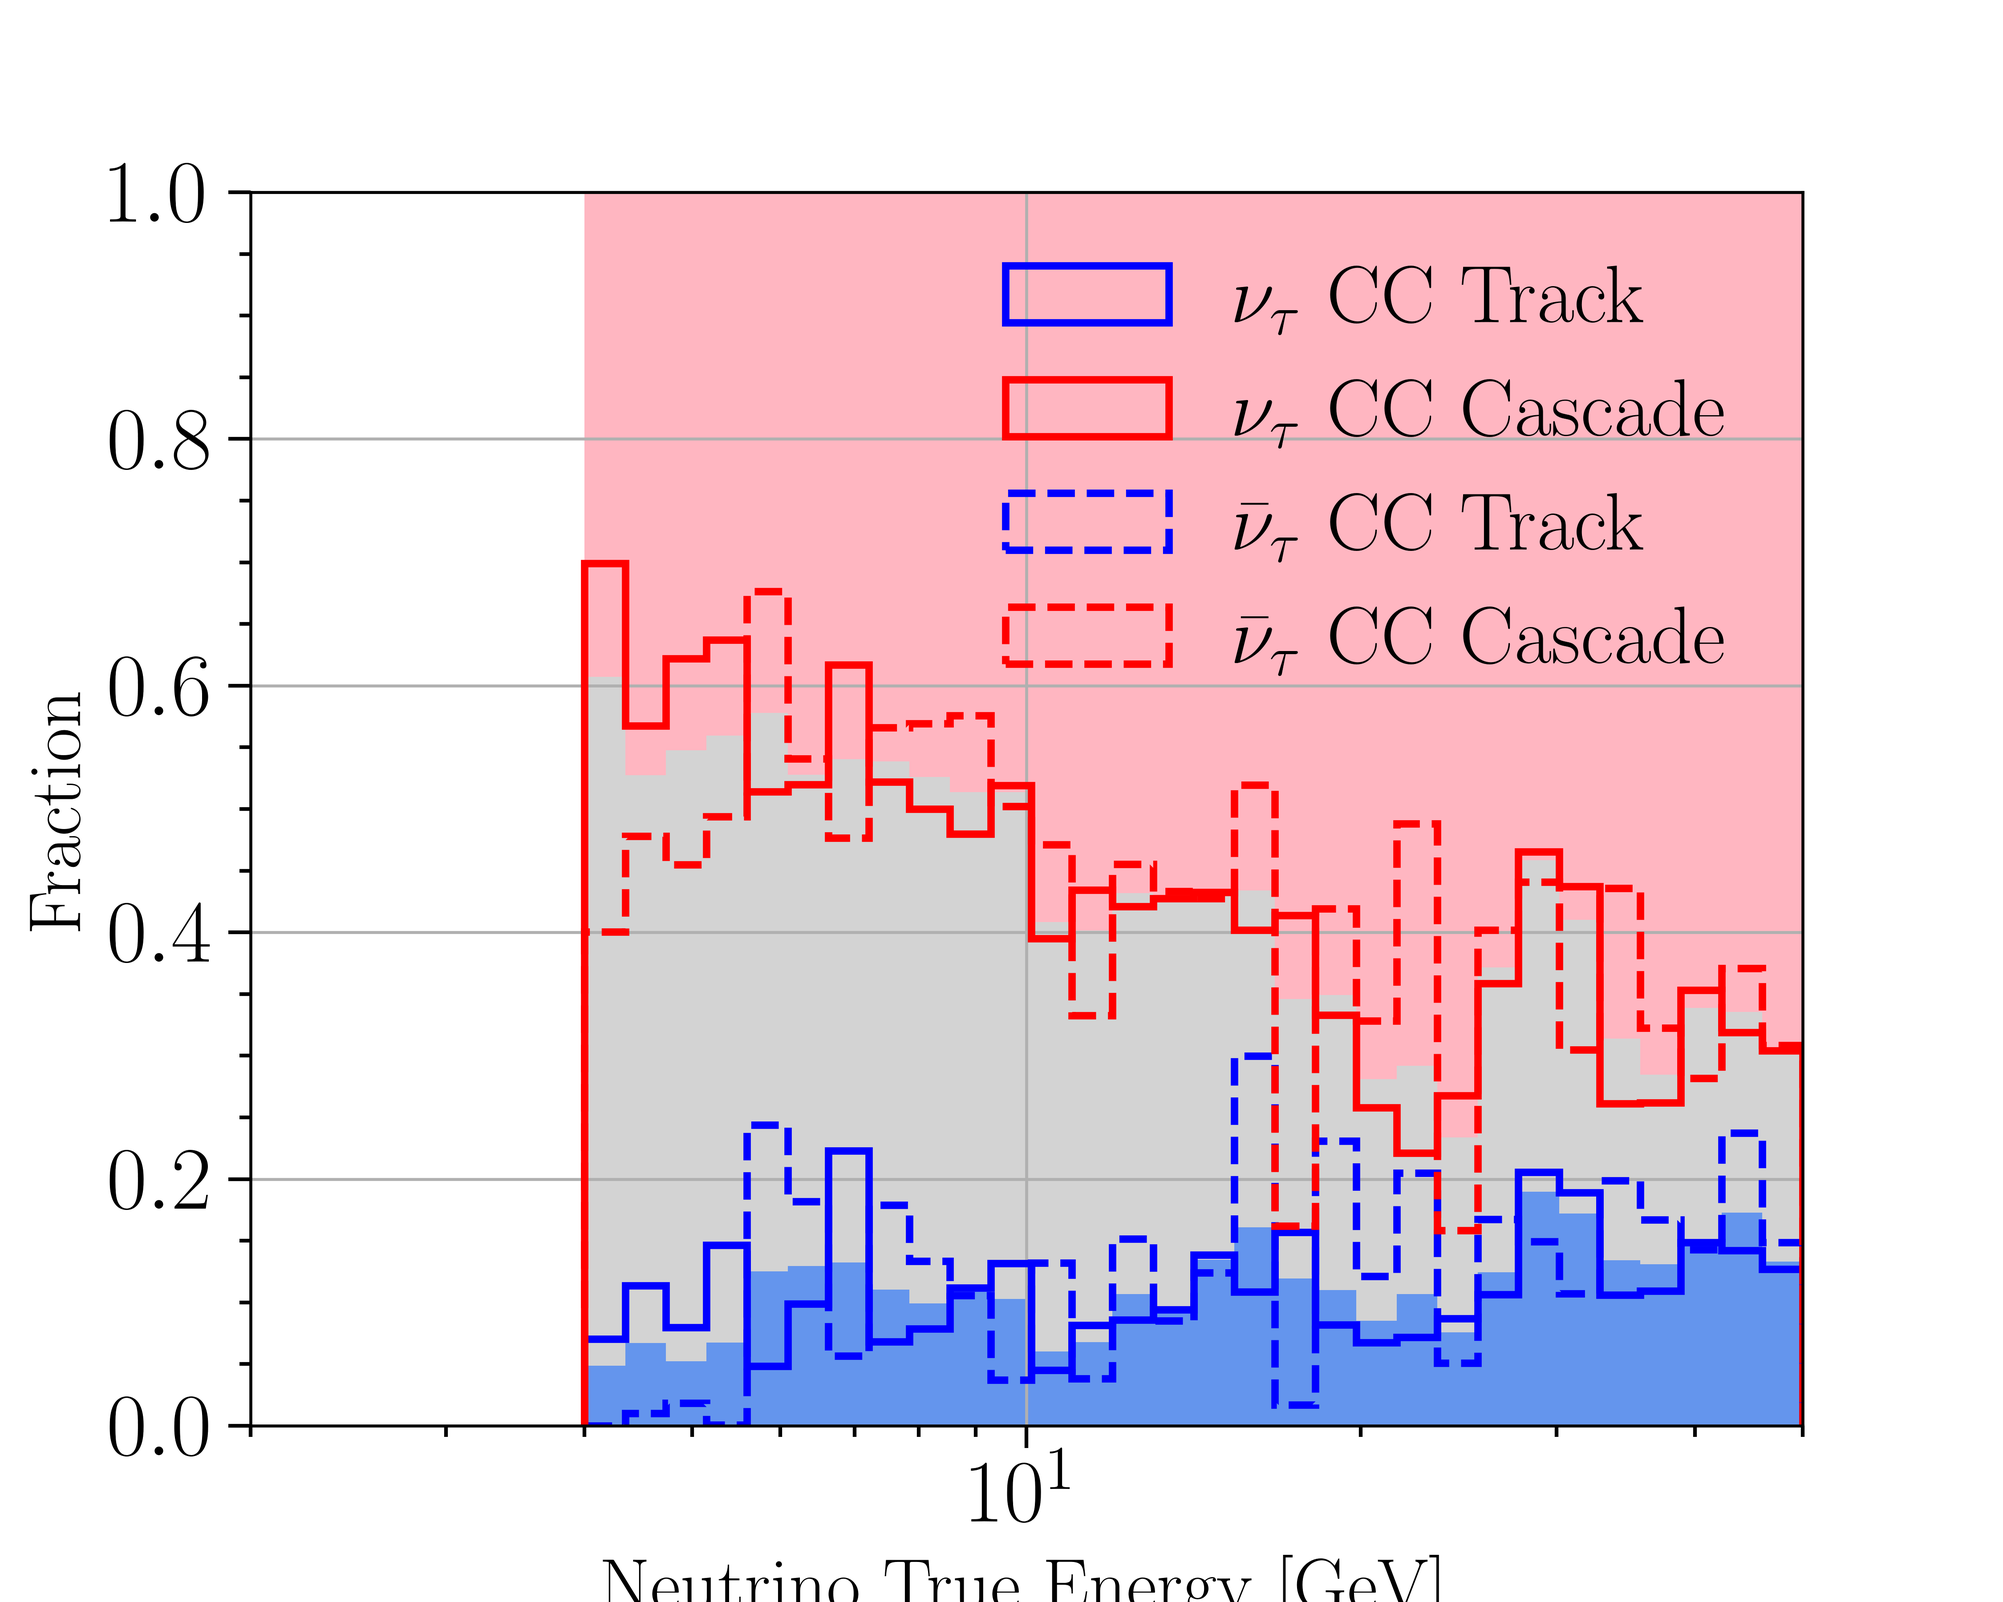
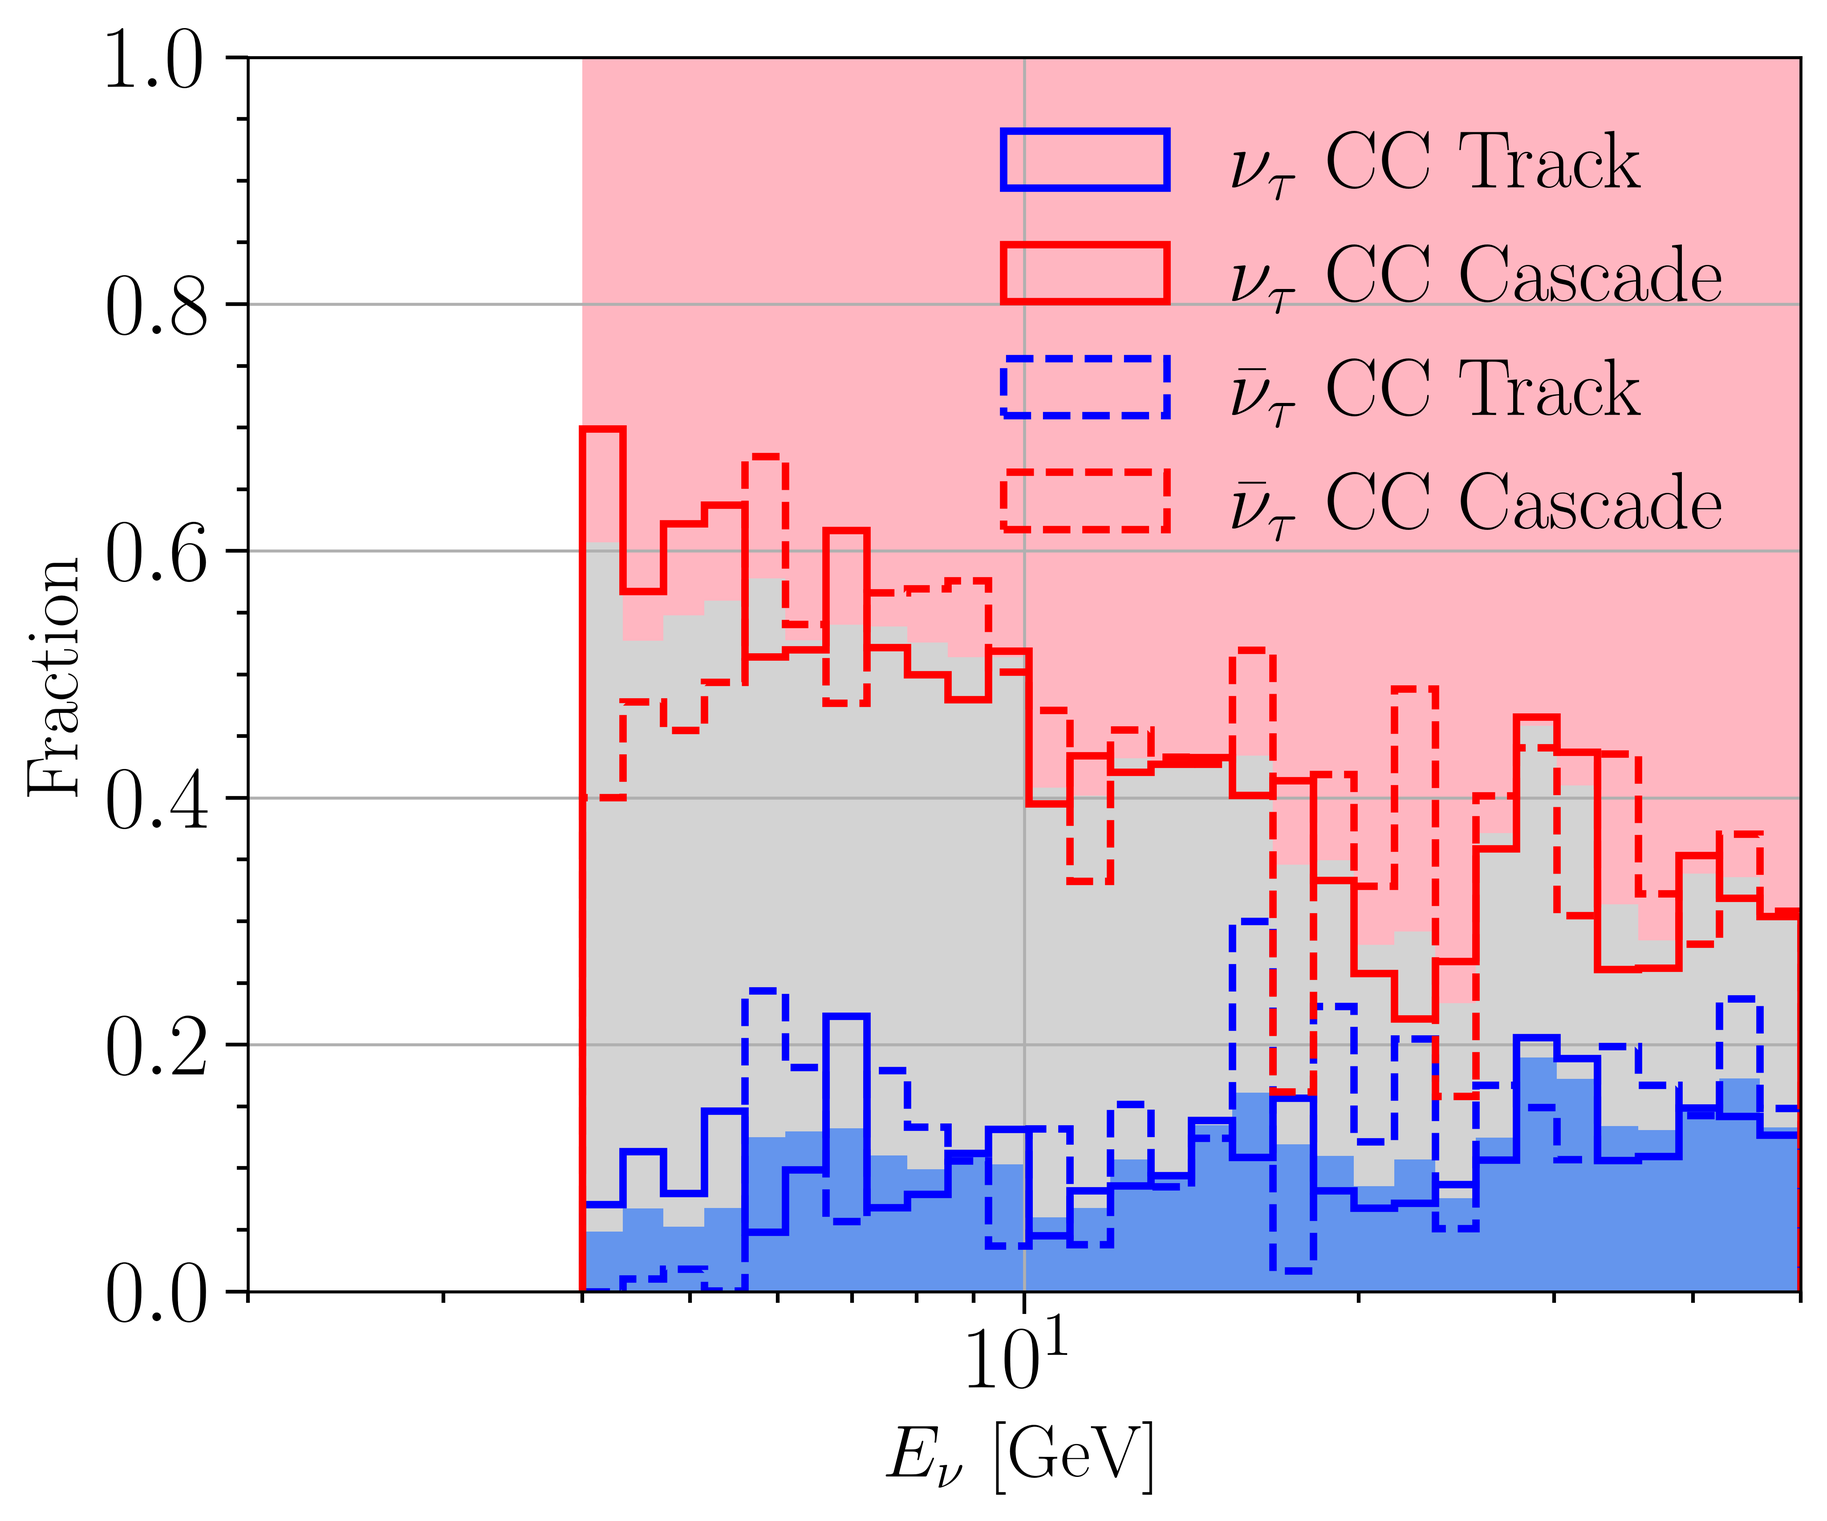
updateOfPlots

diff --git a/sources/ORCA/paper.py b/sources/ORCA/paper.py
@@ -581,7 +581,7 @@ def IC_resolution_with_errors():
     plot_cascade_top = f_cascade_top(plot_error_x)
     plot_cascade_bot = f_cascade_bot(plot_error_x)
 
-    fig, axes = plt.subplots(nrows = 2, ncols = 2, figsize = (12, 8), constrained_layout = True, sharex = True, sharey = 'row', gridspec_kw = {'height_ratios':[1, 2]})
+    fig, axes = plt.subplots(nrows = 2, ncols = 2, figsize = (14, 9), constrained_layout = True, sharex = True, sharey = 'row', gridspec_kw = {'height_ratios':[1, 2]})
     ax3 = axes[0][0]
     ax4 = axes[0][1]
     ax1 = axes[1][0]
@@ -589,11 +589,11 @@ def IC_resolution_with_errors():
     im1 = ax1.pcolor(X, Y, ICtZ.T, cmap = "plasma", norm = LogNorm(), alpha = 0.7)
     im2 = ax2.pcolor(X, Y, ICcZ.T, cmap = "plasma", norm = LogNorm(), alpha = 0.7)
     ax1.set_xlim(plot_start, plot_end)
-    ax1.set_xlabel("True Energy [GeV]")
+    ax1.set_xlabel(r"$E_\nu$ [GeV]")
     ax1.set_ylim(lo, hi)
-    ax1.set_ylabel("Reconstructed Energy [GeV]")
+    ax1.set_ylabel(r"$E_r$ [GeV]")
     ax2.set_xlim(plot_start, plot_end)
-    ax2.set_xlabel("True Energy [GeV]")
+    ax2.set_xlabel(r"$E_\nu$ [GeV]")
     ax2.set_ylim(lo, hi)
     ax1.set_xscale("log")
     ax1.set_yscale("log")
@@ -605,31 +605,31 @@ def IC_resolution_with_errors():
     ax1.plot(plot_error_x, plot_track_median, label = r"\textbf{Median} 50\%", color = 'navy', alpha = 0.7)
     ax1.plot(plot_error_x, plot_track_top, label = r"\textbf{Top} 15\%", color = 'navy', linestyle = '--', alpha = 0.7)
     ax1.plot(plot_error_x, plot_track_bot, label = r"\textbf{Bottom} 15\%", color = 'navy', linestyle = '-.', alpha = 0.7)
-    ax1.legend(fontsize = 14)
+    ax1.legend(fontsize = 15)
 
 
     ax2.plot(plot_error_x, plot_cascade_median, label = r"\textbf{Median} 50\%", color = 'navy', alpha = 0.7)
     ax2.plot(plot_error_x, plot_cascade_top, label = r"\textbf{Top} 15\%", color = 'navy', linestyle = '--', alpha = 0.7)
     ax2.plot(plot_error_x, plot_cascade_bot, label = r"\textbf{Bottom} 15\%", color = 'navy', linestyle = '-.', alpha = 0.7)
-    ax2.legend(fontsize = 14)
+    ax2.legend(fontsize = 15)
 
     # ax3.set_ylim(-25, 10)
     # ax3.errorbar(IC_bins_means, track_median_ratio, yerr = IC_track_ratio_err, fmt = 'o', fillstyle = 'none', capsize = 5, label = r"Energy Reco Error (Median, $15\%$ and $85\%$)")
     ax3.errorbar(IC_bins_means, median_errors, yerr = IC_track_err, fmt = 'o', fillstyle = 'none', capsize = 5, label = r"Energy Reco Error (Median, $15\%$ and $85\%$)")
-    ax3.legend(fontsize = 14)
+    ax3.legend(fontsize = 15)
     # ax3.set_xlabel("True Energy [GeV]")
     # ax4.set_xlabel("True Energy [GeV]")
-    ax3.set_ylabel("Energy Error[GeV]")
+    ax3.set_ylabel(r"Energy Error[GeV]")
     # ax4.set_xscale("log")
     # ax2.set_ylim(-25, 5)
     # ax4.errorbar(IC_bins_means, cascade_median_ratio, yerr = IC_cas_ratio_err, fmt = 'o', fillstyle = 'none', capsize = 5, label = r"Energy Reco Error (Median, $15\%$ and $85\%$)")
     ax4.errorbar(IC_bins_means, Cascade_median_errors, yerr = IC_cas_err, fmt = 'o', fillstyle = 'none', capsize = 5, label = r"Energy Reco Error (Median, $15\%$ and $85\%$)")
     # plt.subplots_adjust(hspace=0)
-    ax4.legend(fontsize = 14)
+    ax4.legend(fontsize = 15)
     # plt.subplots_adjust(wspace=0.1, hspace=0.03)
 
     # plt.show()
-    plt.savefig("./new_paper_plots/IC_energy_Reconstruction", bbox_inches = 'tight', pad_inches = 0.3)
+    plt.savefig("./new_paper_plots/IC_energy_Reconstruction", bbox_inches = 'tight', pad_inches = 0.2)
 
 # IC_resolution_with_errors()
 
@@ -825,7 +825,7 @@ def ORCA_resolution_with_errors():
     plot_cascade_top = f_cascade_top(plot_error_x)
     plot_cascade_bot = f_cascade_bot(plot_error_x)
 
-    fig, axes = plt.subplots(nrows = 2, ncols = 2, figsize = (12, 8), constrained_layout = True, sharex = True, sharey = 'row', gridspec_kw = {'height_ratios':[1, 2]})
+    fig, axes = plt.subplots(nrows = 2, ncols = 2, figsize = (14, 9), constrained_layout = True, sharex = True, sharey = 'row', gridspec_kw = {'height_ratios':[1, 2]})
     ax3 = axes[0][0]
     ax4 = axes[0][1]
     ax1 = axes[1][0]
@@ -833,11 +833,11 @@ def ORCA_resolution_with_errors():
     im1 = ax1.pcolor(X, Y, ICtZ.T, cmap = "plasma", norm = LogNorm(), alpha = 0.7)
     im2 = ax2.pcolor(X, Y, ICcZ.T, cmap = "plasma", norm = LogNorm(), alpha = 0.7)
     ax1.set_xlim(plot_start, plot_end)
-    ax1.set_xlabel("True Energy [GeV]")
+    ax1.set_xlabel(r"$E_\nu$ [GeV]")
     ax1.set_ylim(lo, hi)
-    ax1.set_ylabel("Reconstructed Energy [GeV]")
+    ax1.set_ylabel(r"$E_r$ [GeV]")
     ax2.set_xlim(plot_start, plot_end)
-    ax2.set_xlabel("True Energy [GeV]")
+    ax2.set_xlabel(r"$E_\nu$ [GeV]")
     ax2.set_ylim(lo, hi)
     ax1.set_xscale("log")
     ax1.set_yscale("log")
@@ -849,31 +849,31 @@ def ORCA_resolution_with_errors():
     ax1.plot(plot_error_x, plot_track_median, label = r"\textbf{Median} 50\%", color = 'navy', alpha = 0.7)
     ax1.plot(plot_error_x, plot_track_top, label = r"\textbf{Top} 15\%", color = 'navy', linestyle = '--', alpha = 0.7)
     ax1.plot(plot_error_x, plot_track_bot, label = r"\textbf{Bottom} 15\%", color = 'navy', linestyle = '-.', alpha = 0.7)
-    ax1.legend(fontsize = 14)
+    ax1.legend(fontsize = 15)
 
 
     ax2.plot(plot_error_x, plot_cascade_median, label = r"\textbf{Median} 50\%", color = 'navy', alpha = 0.7)
     ax2.plot(plot_error_x, plot_cascade_top, label = r"\textbf{Top} 15\%", color = 'navy', linestyle = '--', alpha = 0.7)
     ax2.plot(plot_error_x, plot_cascade_bot, label = r"\textbf{Bottom} 15\%", color = 'navy', linestyle = '-.', alpha = 0.7)
-    ax2.legend(fontsize = 14)
+    ax2.legend(fontsize = 15)
 
     # ax3.set_ylim(-25, 10)
     # ax3.errorbar(IC_bins_means, track_median_ratio, yerr = IC_track_ratio_err, fmt = 'o', fillstyle = 'none', capsize = 5, label = r"Energy Reco Error (Median, $15\%$ and $85\%$)")
     ax3.errorbar(IC_bins_means, median_errors, yerr = IC_track_err, fmt = 'o', fillstyle = 'none', capsize = 5, label = r"Energy Reco Error (Median, $15\%$ and $85\%$)")
-    ax3.legend(fontsize = 14)
+    ax3.legend(fontsize = 15)
     # ax3.set_xlabel("True Energy [GeV]")
     # ax4.set_xlabel("True Energy [GeV]")
-    ax3.set_ylabel("Energy Error[GeV]")
+    ax3.set_ylabel(r"Energy Error[GeV]")
     # ax4.set_xscale("log")
     # ax2.set_ylim(-25, 5)
     # ax4.errorbar(IC_bins_means, cascade_median_ratio, yerr = IC_cas_ratio_err, fmt = 'o', fillstyle = 'none', capsize = 5, label = r"Energy Reco Error (Median, $15\%$ and $85\%$)")
     ax4.errorbar(IC_bins_means, Cascade_median_errors, yerr = IC_cas_err, fmt = 'o', fillstyle = 'none', capsize = 5, label = r"Energy Reco Error (Median, $15\%$ and $85\%$)")
     # plt.subplots_adjust(hspace=0)
-    ax4.legend(fontsize = 14)
+    ax4.legend(fontsize = 15)
     # plt.subplots_adjust(wspace=0.08, hspace=0.03)
 
     # plt.show()
-    plt.savefig("./new_paper_plots/ORCA_energy_Reconstruction", bbox_inches = 'tight', pad_inches = 0.3)
+    plt.savefig("./new_paper_plots/ORCA_energy_Reconstruction", bbox_inches = 'tight', pad_inches = 0.2)
 
 # ORCA_resolution_with_errors()
 
@@ -948,33 +948,33 @@ def ORCA_zenith_resolution():
     plot_zen_top = f_zen_top(plot_error_zen)
     plot_zen_bot = f_zen_bot(plot_error_zen)
 
-    fig, axes = plt.subplots(nrows = 2, ncols = 1, figsize = (6, 7.5), constrained_layout = True, sharex = True, gridspec_kw = {'height_ratios':[1, 2]})
+    fig, axes = plt.subplots(nrows = 2, ncols = 1, figsize = (7, 9), constrained_layout = True, sharex = True, gridspec_kw = {'height_ratios':[1, 2]})
     ax3 = axes[0]
     ax3.set_ylim(-0.2, 0.2)
     ax1 = axes[1]
     im1 = ax1.pcolor(X, Y, Z.T, cmap = "plasma", norm = LogNorm(), alpha = 0.7)
     ax1.set_xlim(plot_start, plot_end)
-    ax1.set_xlabel(r"True $\cos \theta$")
+    ax1.set_xlabel(r"$\cos \theta_\nu$")
     ax1.set_ylim(-1, 1)
-    ax1.set_ylabel(r"Reconstructed $\cos \theta$")
+    ax1.set_ylabel(r"$\cos \theta_\r$")
     fig.colorbar(im1, orientation = "vertical", format = LogFormatterMathtext(), alpha = 0.7)
 
     # also plot the error bars
     ax1.plot(plot_error_zen, plot_zen_median, label = r"\textbf{Median} $50\%$", color = 'navy', alpha = 0.7)
     ax1.plot(plot_error_zen, plot_zen_top, label = r"\textbf{Top} $15\%$", color = 'navy', linestyle = '--', alpha = 0.7)
     ax1.plot(plot_error_zen, plot_zen_bot, label = r"\textbf{Bottom} $15\%$", color = 'navy', linestyle = '-.', alpha = 0.7)
-    ax1.legend(fontsize = 14)
+    ax1.legend(fontsize = 15)
 
     # ax3.set_ylim(-25, 10)
     # ax3.errorbar(IC_bins_means, track_median_ratio, yerr = IC_track_ratio_err, fmt = 'o', fillstyle = 'none', capsize = 5, label = r"Energy Reco Error (Median, $15\%$ and $85\%$)")
     ax3.errorbar(ORCA_bins_means, median_errors, yerr = zen_error, fmt = 'o', fillstyle = 'none', capsize = 5, label = r"Energy Reco Error (Median, $15\%$ and $85\%$)")
-    ax3.legend(fontsize = 14)
+    ax3.legend(fontsize = 15)
     ax3.set_ylabel(r"$\cos \theta$ Error")
 
     # plt.show()
-    plt.savefig("./new_paper_plots/Zenith_Resolution.png", bbox_inches = 'tight', pad_inches = 0.3)
+    plt.savefig("./new_paper_plots/Zenith_Resolution.png", bbox_inches = 'tight', pad_inches = 0.2)
 
-# ORCA_zenith_resolution()
+ORCA_zenith_resolution()
 
 def range_zenith_resolution():
     zen_true = ORCA["true_zenith"]
@@ -1025,7 +1025,7 @@ def effective_volumes():
     ORCA = eff.ORCAEffectiveAnalysis(num_bins = 20)
     IC.compute()
     ORCA.compute()
-    fig, axes = plt.subplots(nrows = 1, ncols = 2, figsize = (18, 6))
+    fig, axes = plt.subplots(nrows = 1, ncols = 2, figsize = (15, 7))
     ax1, ax2 = axes[0], axes[1]
 
     # first plot IC
@@ -1051,7 +1051,7 @@ def effective_volumes():
     ax1.hist(ncbarbin[:-1], ncbarbin, weights = ncbarhist / IC.widths,color = "brown", label=r"$\overline{\nu} NC$",\
                             linestyle = "--", histtype="step")
     ax1.set_xscale("log")
-    ax1.set_xlabel(r"$E_{\nu,\rm{true}}$ [GeV]")
+    ax1.set_xlabel(r"$E_{\nu}$ [GeV]")
     ax1.set_xlim(IC.lo, IC.hi)
     ax1.set_ylabel(r"Effective Volume [m$^3$]")
     ax1.grid(True)
@@ -1073,7 +1073,7 @@ def effective_volumes():
                             linestyle = "--", histtype="step")
     ax2.set_xscale("log")
     # ax.set_yscale("log")
-    ax2.set_xlabel(r"$E_{\nu,\rm{true}}$ [GeV]")
+    ax2.set_xlabel(r"$E_{\nu}$ [GeV]")
     ax2.set_ylabel(r"Effective Volume [m$^3$]")
     ax2.set_xlim(1, 50)
     ax2.grid(True)
@@ -1089,4 +1089,4 @@ def effective_volumes():
     plt.savefig("./new_paper_plots/Effective_Volumes.png", bbox_inches = 'tight', pad_inches = 0.2)
     plt.close()
 
-effective_volumes() 
+# effective_volumes() 

diff --git a/sources/ORCA/fluxplot.py b/sources/ORCA/fluxplot.py
@@ -90,22 +90,22 @@ SKweights = np.array([27000])
 
 
 # start plotting
-fig, [ax2, ax] = plt.subplots(figsize = (8, 17), ncols = 1, nrows = 2, gridspec_kw = {'height_ratios':[1, 2]}, sharex = True)
+fig, [ax2, ax] = plt.subplots(figsize = (6, 14), ncols = 1, nrows = 2, gridspec_kw = {'height_ratios':[1, 1.5]}, sharex = True)
 ax.set_yscale("log")
 ax.set_xscale("log")
-ax.set_xlabel(r"Energy [GeV]")
+ax.set_xlabel(r"$E_\nu$ [GeV]")
 ax.set_ylabel(r"$E^2 \Phi$ [GeV $\cdot$ cm$^{-2}$ sec$^{-1}$ sr$^{-1}]$")
-ax2.set_ylabel(r"Effective Volume [m $^3$]")
+ax2.set_ylabel(r"Effective Volume [m$^3$]")
 # ax.set_xlim(-1, 6)
 # First plot the flux points
 ax.errorbar(SKnue_x_val, SKnue_y_val, yerr = SKnue_yerr, fmt = 'o', capsize = 3, label = r"SK I-IV $\nu_e$")
 ax.errorbar(SKnumu_x_val, SKnumu_y_val, yerr = SKnumu_yerr, fmt = 's', capsize = 3, label = r"SK I-IV $\nu_\mu$")
-ax.errorbar(Frej_nue_x_val, Frej_nue_y_val, xerr = Frej_nue_xerr, yerr = Frej_nue_yerr, fmt = 'x', capsize = 3, label = r"Frejus $\nu_e$")
-ax.errorbar(ICDC2013_x_val, ICDC2013_y_val, xerr = ICDC2013_xerr, yerr = ICDC2013_yerr, fmt = 'v', capsize = 3, label = r"IceCube/Deepcore 2013 $\nu_e$")
+# ax.errorbar(Frej_nue_x_val, Frej_nue_y_val, xerr = Frej_nue_xerr, yerr = Frej_nue_yerr, fmt = 'x', capsize = 3, label = r"Frejus $\nu_e$")
+# ax.errorbar(ICDC2013_x_val, ICDC2013_y_val, xerr = ICDC2013_xerr, yerr = ICDC2013_yerr, fmt = 'v', capsize = 3, label = r"IceCube/Deepcore 2013 $\nu_e$")
 ax.errorbar(IC2014_x_val, IC2014_y_val, xerr = IC2014_xerr, yerr = IC2014_yerr, fmt = 'v', capsize = 3, label = r"IceCube 2014 $\nu_e$")
-ax.errorbar(ANTARES_x_val, ANTARES_y_val, xerr = ANTARES_xerr, yerr = ANTARES_yerr, fmt = 'P', fillstyle = 'none', capsize = 3, label = r"ANTARES $\nu_mu$")
-ax.errorbar(Frej_numu_x_val, Frej_numu_y_val, xerr = Frej_numu_xerr, yerr = Frej_numu_yerr, fmt = 'x', capsize = 3, label = r"Frejus $\nu_\mu$")
-ax.errorbar(AMANDA_numu_x_val, AMANDA_numu_y_val, xerr = AMANDA_numu_xerr, yerr = AMANDA_numu_yerr, fmt = 'D', fillstyle = 'none', capsize = 3, label = r"AMANDA-II $\nu_\mu$")
+# ax.errorbar(ANTARES_x_val, ANTARES_y_val, xerr = ANTARES_xerr, yerr = ANTARES_yerr, fmt = 'P', fillstyle = 'none', capsize = 3, label = r"ANTARES $\nu_\mu$")
+# ax.errorbar(Frej_numu_x_val, Frej_numu_y_val, xerr = Frej_numu_xerr, yerr = Frej_numu_yerr, fmt = 'x', capsize = 3, label = r"Frejus $\nu_\mu$")
+# ax.errorbar(AMANDA_numu_x_val, AMANDA_numu_y_val, xerr = AMANDA_numu_xerr, yerr = AMANDA_numu_yerr, fmt = 'D', fillstyle = 'none', capsize = 3, label = r"AMANDA-II $\nu_\mu$")
 ax.errorbar(IC_numu_unfolding_x_val, IC_numu_unfolding_y_val, xerr = IC_numu_unfolding_xerr, yerr = IC_numu_unfolding_yerr, fmt = '^', capsize = 3, label = r"IceCube $\nu_\mu$ unfolding")
 # now plot the fitted flux lines
 ax.plot(HKKM11_nue_xval, HKKM11_nue_yval, linestyle = '--', linewidth = 2.4,  label = r"HKKM11 $\nu_e$")
@@ -128,7 +128,7 @@ ax2.hist(ICbin[:-1], ICbin, weights = IChist / IC.widths, label=r"IceCube Upgrad
 ax2.hist(ORCA.e_bin[:-1], ORCA.e_bin, weights = ORCA.evol + ORCA.ebarvol + ORCA.muvol + ORCA.mubarvol\
 					+ ORCA.tauvol + ORCA.taubarvol + ORCA.ncvol + ORCA.ncbarvol, label=r"ORCA Effective Volume", lw = 0 , color = "lightgreen", alpha = 0.4)
 ax2.hist(SKbins[:-1], SKbins, weights = SKweights, label=r"Super-K Effective Volume", lw = 0, alpha = 0.3)
-
+ax.set_ylim(10**(-6), 10**(-1))
 ax2.set_yscale('log')
 ax2.legend(fontsize = 14)
 
@@ -138,7 +138,7 @@ ax.set_xlim(10**(-1), 1.5 * 10 ** 2)
 ax.legend(loc = 3, fontsize = 14)
 plt.subplots_adjust(hspace=0.03)
 # plt.show()
-plt.savefig("./new_paper_plots/Flux_range_plot", bbox_inches = 'tight', pad_inches = 0.4)
+plt.savefig("./new_paper_plots/Flux_range_plot", bbox_inches = 'tight', pad_inches = 0.2)
 
 
 

diff --git a/sources/NewAnalysis/paper.py b/sources/NewAnalysis/paper.py
@@ -149,14 +149,14 @@ def reco_event_distribution():
 					 label="Intermediate", histtype="step")
 	# ax.set_xscale("log")
 	ax2.set_yscale("log")
-	ax2.set_xlabel("Neutrino Reconstructed Cosine Zenith Angle")
+	ax2.set_xlabel(r"$\cos \theta_r$")
 	# ax2.set_ylim(2 * 10 ** 2, 2 * 10 ** 4 )
 	ax2.set_xlim(-1, 0)
-	ax2.set_ylabel("Total Event Count [3 yrs]")
+	ax2.set_ylabel(r"Events/3years")
 	# ax.grid(True)
 	ax2.legend(loc = 2, fontsize = 18)
-	ax2.title.set_text("Reconstructed Cosine Zenith Distribution")
-	ax1.title.set_text("Reconstructed Energy Distribution")
+	# ax2.title.set_text("Reconstructed Cosine Zenith Distribution")
+	# ax1.title.set_text("Reconstructed Energy Distribution")
 
 	ax1.hist(energy_bins[:-1], energy_bins, weights = track / bin_widths,\
 					 label="Track", histtype="step")
@@ -167,9 +167,9 @@ def reco_event_distribution():
 	ax1.set_xscale("log")
 	ax1.set_yscale("log")
 	ax1.set_ylim(50, 4 * 10 ** 4)
-	ax1.set_xlabel("Neutrino Reconstructed Energy [GeV]")
+	ax1.set_xlabel(r"$E_r$ [GeV]")
 	ax1.set_xlim(1.85, 50)
-	ax1.set_ylabel("Total Event Count [3 yrs]")
+	ax1.set_ylabel(r"Events/3years")
 	ax1.set_xticks([1.85, 10, 50])
 	plt.subplots_adjust(wspace=0.3)
 	# ax.grid(True)

diff --git a/sources/NewAnalysis/ORCAplot.py b/sources/NewAnalysis/ORCAplot.py
@@ -234,14 +234,14 @@ def ORCA_topology_details(flavor, current):
 	
 
 	ax.set_xscale("log")
-	ax.set_xlabel("Neutrino True Energy [GeV]")
+	ax.set_xlabel(r"$E_\nu$ [GeV]")
 	ax.set_xlim(2, 50)
 	ax.set_ylim(0, 1)
 	ax.set_ylabel("Fraction")
 	ax.grid(True)
 	ax.legend(loc = legendloc, fontsize = 22)
 	# plt.show()
-	fig.savefig("./../ORCA/new_paper_plots/nu{}_{}_Topology_Fraction".format(flavname, curname))
+	fig.savefig("./../ORCA/new_paper_plots/nu{}_{}_Topology_Fraction".format(flavname, curname),bbox_inches = 'tight', pad_inches = 0.1)
 	plt.close()
 
 ORCA_topology_details(0, 1)
